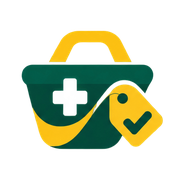
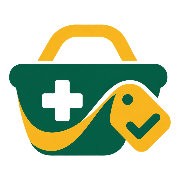
Atualiza icone da marca em todo o sistema

Changed region(s): [[0.0278, 0.1111, 0.9722, 0.8889]]

diff --git a/src/pages/PaginaAlterarSenhaRepresentante.tsx b/src/pages/PaginaAlterarSenhaRepresentante.tsx
@@ -8,5 +8,5 @@ import { LinkInterno, usarParametrosBusca } from '../roteamento'
 export default function PaginaAlterarSenhaRepresentante(){
   const[params]=usarParametrosBusca();const retorno=params.get('retornar')?.startsWith('/cotacao/responder/')?params.get('retornar')!:'/';const[senhaAtual,setSenhaAtual]=useState('');const[novaSenha,setNovaSenha]=useState('');const[confirmacao,setConfirmacao]=useState('');const[mostrar,setMostrar]=useState(false);const[erro,setErro]=useState('');const[ocupado,setOcupado]=useState(false);const[concluido,setConcluido]=useState(false)
   const salvar=async(event:FormEvent)=>{event.preventDefault();setErro('');if(novaSenha!==confirmacao){setErro('A confirmação não corresponde à nova senha.');return}setOcupado(true);try{await apiRepresentante('/publico/representantes/senha',{method:'PUT',body:JSON.stringify({senhaAtual,novaSenha})});await encerrarSessaoRepresentante();setConcluido(true)}catch(e){setErro(e instanceof ErroApi?e.message:'Não foi possível alterar a senha.')}finally{setOcupado(false)}}
-  return <div className="public-page public-center"><div className="public-logo reset-logo"><img className="cotapreco-logo" src="/cotapreco-logo.png?v=20260904-2" alt="CotaPreço"/></div><section className="public-card reset-card">{concluido?<><div className="success-icon large"><CheckCircle2/></div><h1>Senha alterada</h1><p>Por segurança, sua sessão foi encerrada. Entre novamente para continuar.</p><LinkInterno className="button button-primary button-large full-button" to={retorno}>Voltar para a cotação</LinkInterno></>:<><div className="success-icon small-icon"><KeyRound/></div><span className="eyebrow green">Conta do representante</span><h1>Alterar senha</h1><p>Confirme sua senha atual e escolha uma nova.</p>{erro&&<AvisoErro message={erro}/>}<form className="stack-form" onSubmit={salvar}><label>Senha atual<div className="password-field"><input required autoComplete="current-password" type={mostrar?'text':'password'} value={senhaAtual} onChange={e=>setSenhaAtual(e.target.value)}/><button type="button" aria-label={mostrar?'Ocultar senhas':'Mostrar senhas'} onClick={()=>setMostrar(valor=>!valor)}>{mostrar?<EyeOff/>:<Eye/>}</button></div></label><label>Nova senha<input required autoComplete="new-password" maxLength={72} type={mostrar?'text':'password'} value={novaSenha} onChange={e=>setNovaSenha(e.target.value)}/><IndicadorForcaSenha senha={novaSenha}/></label><label>Confirmar nova senha<input required autoComplete="new-password" maxLength={72} type={mostrar?'text':'password'} value={confirmacao} onChange={e=>setConfirmacao(e.target.value)}/></label><button className="button button-primary button-large full-button" disabled={ocupado}>{ocupado?'Atualizando...':'Atualizar senha'}</button></form></>}<div className="public-security"><ShieldCheck/>A alteração encerra as sessões ativas.</div>{!concluido&&<LinkInterno className="reset-back" to={retorno}><ArrowLeft/>Voltar para a cotação</LinkInterno>}</section></div>
+  return <div className="public-page public-center"><div className="public-logo reset-logo"><img className="cotapreco-logo" src="/cotapreco-logo.png?v=20260905-1" alt="CotaPreço"/></div><section className="public-card reset-card">{concluido?<><div className="success-icon large"><CheckCircle2/></div><h1>Senha alterada</h1><p>Por segurança, sua sessão foi encerrada. Entre novamente para continuar.</p><LinkInterno className="button button-primary button-large full-button" to={retorno}>Voltar para a cotação</LinkInterno></>:<><div className="success-icon small-icon"><KeyRound/></div><span className="eyebrow green">Conta do representante</span><h1>Alterar senha</h1><p>Confirme sua senha atual e escolha uma nova.</p>{erro&&<AvisoErro message={erro}/>}<form className="stack-form" onSubmit={salvar}><label>Senha atual<div className="password-field"><input required autoComplete="current-password" type={mostrar?'text':'password'} value={senhaAtual} onChange={e=>setSenhaAtual(e.target.value)}/><button type="button" aria-label={mostrar?'Ocultar senhas':'Mostrar senhas'} onClick={()=>setMostrar(valor=>!valor)}>{mostrar?<EyeOff/>:<Eye/>}</button></div></label><label>Nova senha<input required autoComplete="new-password" maxLength={72} type={mostrar?'text':'password'} value={novaSenha} onChange={e=>setNovaSenha(e.target.value)}/><IndicadorForcaSenha senha={novaSenha}/></label><label>Confirmar nova senha<input required autoComplete="new-password" maxLength={72} type={mostrar?'text':'password'} value={confirmacao} onChange={e=>setConfirmacao(e.target.value)}/></label><button className="button button-primary button-large full-button" disabled={ocupado}>{ocupado?'Atualizando...':'Atualizar senha'}</button></form></>}<div className="public-security"><ShieldCheck/>A alteração encerra as sessões ativas.</div>{!concluido&&<LinkInterno className="reset-back" to={retorno}><ArrowLeft/>Voltar para a cotação</LinkInterno>}</section></div>
 }

diff --git a/src/components/LayoutSistema.tsx b/src/components/LayoutSistema.tsx
@@ -43,7 +43,7 @@ export default function LayoutSistema({children}:{children:ReactNode}){
   const tituloNavegacao=(label:string)=>recolhidaEfetiva?label:undefined
   return <div className={`app-shell ${recolhidaEfetiva?'app-shell-sidebar-recolhida':''}`}>
     <aside className={`sidebar ${open?'sidebar-open':''} ${recolhidaEfetiva?'sidebar-recolhida':''}`}>
-      <div className="brand"><div className="brand-copy"><img className="cotapreco-logo" src="/cotapreco-logo.png?v=20260904-2" alt="CotaPreço"/><span>{user?.staff?'Equipe interna':'Compras inteligentes'}</span></div><button aria-label={recolhida?'Expandir menu':'Minimizar menu'} className="icon-button sidebar-toggle" title={recolhida?'Expandir menu':'Minimizar menu'} onClick={()=>setRecolhida(valor=>!valor)}>{recolhida?<PanelLeftOpen size={20}/>:<PanelLeftClose size={20}/>}</button><button className="icon-button sidebar-close" onClick={()=>setOpen(false)}><X size={20}/></button></div>
+      <div className="brand"><div className="brand-copy"><img className="cotapreco-logo" src="/cotapreco-logo.png?v=20260905-1" alt="CotaPreço"/><span>{user?.staff?'Equipe interna':'Compras inteligentes'}</span></div><button aria-label={recolhida?'Expandir menu':'Minimizar menu'} className="icon-button sidebar-toggle" title={recolhida?'Expandir menu':'Minimizar menu'} onClick={()=>setRecolhida(valor=>!valor)}>{recolhida?<PanelLeftOpen size={20}/>:<PanelLeftClose size={20}/>}</button><button className="icon-button sidebar-close" onClick={()=>setOpen(false)}><X size={20}/></button></div>
       <nav>
         {(user?.staff?linksStaff:links).map(({to,label,icon:Icon,end})=><LinkNavegacao key={to} to={to} end={end} aria-label={label} title={tituloNavegacao(label)} onClick={fecharMenuMobile}><Icon size={20}/><span>{label}</span><ChevronRight className="nav-chevron" size={16}/></LinkNavegacao>)}
         {!user?.staff&&(isAdminAtivo(user)||isAdminDoGrupo(user))&&<><div className="nav-divider"/><span className="nav-label">Administração</span>{isAdminDoGrupo(user)&&<LinkNavegacao to="/usuarios" aria-label="Usuários" title={tituloNavegacao('Usuários')} onClick={fecharMenuMobile}><Users size={20}/><span>Usuários</span><ChevronRight className="nav-chevron" size={16}/></LinkNavegacao>}<LinkNavegacao to="/dados-farmacia" aria-label="Dados da farmácia" title={tituloNavegacao('Dados da farmácia')} onClick={fecharMenuMobile}><Building2 size={20}/><span>Dados da farmácia</span><ChevronRight className="nav-chevron" size={16}/></LinkNavegacao></>}
@@ -54,6 +54,6 @@ export default function LayoutSistema({children}:{children:ReactNode}){
       <div className="account"><div className="avatar">{user?.name.slice(0,2).toUpperCase()}</div><div><strong>{user?.name}</strong>{!user?.staff&&<SeletorFarmacia user={user}/>}</div><button className="icon-button" title="Sair" onClick={()=>void logout()}><LogOut size={19}/></button></div>
     </aside>
     {open&&<button aria-label="Fechar menu" className="sidebar-backdrop" onClick={()=>setOpen(false)}/>} 
-    <div className="main-area"><header className="mobile-header"><button className="icon-button" onClick={()=>setOpen(true)}><Menu/></button><div className="brand compact"><img className="cotapreco-logo" src="/cotapreco-logo.png?v=20260904-2" alt="CotaPreço"/></div><div className="avatar small">{user?.name[0]}</div></header><main><AvisoEmailConfirmado/><FaixaAssinatura/><FaixaConfirmacaoEmail/>{children}</main><footer className="rodape-sistema"><AssinaturaEmpresa/></footer></div>
+    <div className="main-area"><header className="mobile-header"><button className="icon-button" onClick={()=>setOpen(true)}><Menu/></button><div className="brand compact"><img className="cotapreco-logo" src="/cotapreco-logo.png?v=20260905-1" alt="CotaPreço"/></div><div className="avatar small">{user?.name[0]}</div></header><main><AvisoEmailConfirmado/><FaixaAssinatura/><FaixaConfirmacaoEmail/>{children}</main><footer className="rodape-sistema"><AssinaturaEmpresa/></footer></div>
   </div>
 }

diff --git a/src/pages/PaginaRedefinirSenha.tsx b/src/pages/PaginaRedefinirSenha.tsx
@@ -8,5 +8,5 @@ export default function PaginaRedefinirSenha(){
   const[params]=usarParametrosBusca();const token=params.get('token')??''
   const[senha,setSenha]=useState('');const[confirmacao,setConfirmacao]=useState('');const[erro,setErro]=useState('');const[ocupado,setOcupado]=useState(false);const[concluido,setConcluido]=useState(false)
   const enviar=async(event:FormEvent)=>{event.preventDefault();setErro('');if(senha!==confirmacao){setErro('As senhas não coincidem.');return}setOcupado(true);try{await apiPublica('/auth/redefinir-senha',{method:'POST',body:JSON.stringify({token,novaSenha:senha})});setConcluido(true)}catch(e){setErro(e instanceof ErroApi?e.message:'Não foi possível redefinir a senha.')}finally{setOcupado(false)}}
-  return <div className="public-page public-center"><div className="public-logo reset-logo"><img className="cotapreco-logo" src="/cotapreco-logo.png?v=20260904-2" alt="CotaPreço"/></div><section className="public-card reset-card">{concluido?<><div className="success-icon large"><CheckCircle2/></div><h1>Senha redefinida</h1><p>Sua senha foi atualizada. Entre novamente para continuar.</p><LinkInterno className="button button-primary button-large full-button" to="/login">Ir para o login</LinkInterno></>:<><div className="success-icon small-icon"><KeyRound/></div><span className="eyebrow green">Recuperar acesso</span><h1>Crie uma nova senha</h1><p>Escolha uma senha com pelo menos 8 caracteres.</p>{!token&&<AvisoErro message="O link de redefinição está incompleto."/>}{erro&&<AvisoErro message={erro}/>}<form onSubmit={enviar} className="stack-form"><label>Nova senha<input type="password" required minLength={8} maxLength={72} autoComplete="new-password" value={senha} onChange={e=>setSenha(e.target.value)}/></label><label>Confirmar nova senha<input type="password" required minLength={8} maxLength={72} autoComplete="new-password" value={confirmacao} onChange={e=>setConfirmacao(e.target.value)}/></label><button className="button button-primary button-large full-button" disabled={ocupado||!token}>{ocupado?'Salvando...':'Redefinir senha'}</button></form></>}<div className="public-security"><ShieldCheck/>Link protegido e de uso único.</div></section></div>
+  return <div className="public-page public-center"><div className="public-logo reset-logo"><img className="cotapreco-logo" src="/cotapreco-logo.png?v=20260905-1" alt="CotaPreço"/></div><section className="public-card reset-card">{concluido?<><div className="success-icon large"><CheckCircle2/></div><h1>Senha redefinida</h1><p>Sua senha foi atualizada. Entre novamente para continuar.</p><LinkInterno className="button button-primary button-large full-button" to="/login">Ir para o login</LinkInterno></>:<><div className="success-icon small-icon"><KeyRound/></div><span className="eyebrow green">Recuperar acesso</span><h1>Crie uma nova senha</h1><p>Escolha uma senha com pelo menos 8 caracteres.</p>{!token&&<AvisoErro message="O link de redefinição está incompleto."/>}{erro&&<AvisoErro message={erro}/>}<form onSubmit={enviar} className="stack-form"><label>Nova senha<input type="password" required minLength={8} maxLength={72} autoComplete="new-password" value={senha} onChange={e=>setSenha(e.target.value)}/></label><label>Confirmar nova senha<input type="password" required minLength={8} maxLength={72} autoComplete="new-password" value={confirmacao} onChange={e=>setConfirmacao(e.target.value)}/></label><button className="button button-primary button-large full-button" disabled={ocupado||!token}>{ocupado?'Salvando...':'Redefinir senha'}</button></form></>}<div className="public-security"><ShieldCheck/>Link protegido e de uso único.</div></section></div>
 }

diff --git a/src/pages/PaginaRedefinirSenhaRepresentante.tsx b/src/pages/PaginaRedefinirSenhaRepresentante.tsx
@@ -9,5 +9,5 @@ export default function PaginaRedefinirSenhaRepresentante(){
   const[params]=usarParametrosBusca();const token=params.get('token')??''
   const[senha,setSenha]=useState('');const[confirmacao,setConfirmacao]=useState('');const[erro,setErro]=useState('');const[ocupado,setOcupado]=useState(false);const[concluido,setConcluido]=useState(false)
   const enviar=async(event:FormEvent)=>{event.preventDefault();setErro('');if(senha!==confirmacao){setErro('As senhas não coincidem.');return}setOcupado(true);try{await apiPublica('/publico/representantes/redefinir-senha',{method:'POST',body:JSON.stringify({token,novaSenha:senha})});setConcluido(true)}catch(e){setErro(e instanceof ErroApi?e.message:'Não foi possível redefinir a senha.')}finally{setOcupado(false)}}
-  return <div className="public-page public-center"><div className="public-logo reset-logo"><img className="cotapreco-logo" src="/cotapreco-logo.png?v=20260904-2" alt="CotaPreço"/></div><section className="public-card reset-card">{concluido?<><div className="success-icon large"><CheckCircle2/></div><h1>Senha redefinida</h1><p>Abra novamente o link da cotação para entrar com sua nova senha.</p></>:<><div className="success-icon small-icon"><KeyRound/></div><span className="eyebrow green">Conta do representante</span><h1>Crie uma nova senha</h1><p>Escolha uma senha fácil de lembrar.</p>{!token&&<AvisoErro message="O link de redefinição está incompleto."/>}{erro&&<AvisoErro message={erro}/>}<form onSubmit={enviar} className="stack-form"><label>Nova senha<input type="password" required minLength={1} maxLength={72} autoComplete="new-password" value={senha} onChange={e=>setSenha(e.target.value)}/><IndicadorForcaSenha senha={senha}/></label><label>Confirmar nova senha<input type="password" required minLength={1} maxLength={72} autoComplete="new-password" value={confirmacao} onChange={e=>setConfirmacao(e.target.value)}/></label><button className="button button-primary button-large full-button" disabled={ocupado||!token}>{ocupado?'Salvando...':'Redefinir senha'}</button></form></>}<div className="public-security"><ShieldCheck/>Link protegido e de uso único.</div></section></div>
+  return <div className="public-page public-center"><div className="public-logo reset-logo"><img className="cotapreco-logo" src="/cotapreco-logo.png?v=20260905-1" alt="CotaPreço"/></div><section className="public-card reset-card">{concluido?<><div className="success-icon large"><CheckCircle2/></div><h1>Senha redefinida</h1><p>Abra novamente o link da cotação para entrar com sua nova senha.</p></>:<><div className="success-icon small-icon"><KeyRound/></div><span className="eyebrow green">Conta do representante</span><h1>Crie uma nova senha</h1><p>Escolha uma senha fácil de lembrar.</p>{!token&&<AvisoErro message="O link de redefinição está incompleto."/>}{erro&&<AvisoErro message={erro}/>}<form onSubmit={enviar} className="stack-form"><label>Nova senha<input type="password" required minLength={1} maxLength={72} autoComplete="new-password" value={senha} onChange={e=>setSenha(e.target.value)}/><IndicadorForcaSenha senha={senha}/></label><label>Confirmar nova senha<input type="password" required minLength={1} maxLength={72} autoComplete="new-password" value={confirmacao} onChange={e=>setConfirmacao(e.target.value)}/></label><button className="button button-primary button-large full-button" disabled={ocupado||!token}>{ocupado?'Salvando...':'Redefinir senha'}</button></form></>}<div className="public-security"><ShieldCheck/>Link protegido e de uso único.</div></section></div>
 }

diff --git a/src/pages/PaginaEsqueciSenha.tsx b/src/pages/PaginaEsqueciSenha.tsx
@@ -7,5 +7,5 @@ import { LinkInterno } from '../roteamento'
 export default function PaginaEsqueciSenha(){
   const[email,setEmail]=useState('');const[erro,setErro]=useState('');const[mensagem,setMensagem]=useState('');const[ocupado,setOcupado]=useState(false)
   const enviar=async(event:FormEvent)=>{event.preventDefault();setErro('');setMensagem('');setOcupado(true);try{const resposta=await apiPublica<{mensagem:string}>('/auth/esqueci-senha',{method:'POST',body:JSON.stringify({email})});setMensagem(resposta.mensagem)}catch(e){setErro(e instanceof ErroApi?e.message:'Não foi possível enviar as instruções.')}finally{setOcupado(false)}}
-  return <div className="public-page public-center"><div className="public-logo reset-logo"><img className="cotapreco-logo" src="/cotapreco-logo.png?v=20260904-2" alt="CotaPreço"/></div><section className="public-card reset-card"><div className="success-icon small-icon"><KeyRound/></div><span className="eyebrow green">Recuperar acesso</span><h1>Esqueceu sua senha?</h1><p>Informe seu e-mail de acesso. Enviaremos um link seguro para criar uma nova senha.</p>{erro&&<AvisoErro message={erro}/>} {mensagem?<div className="reset-success"><CheckCircle2/><p>{mensagem}</p></div>:<form onSubmit={enviar} className="stack-form"><label>E-mail<input type="email" required autoComplete="email" value={email} onChange={e=>setEmail(e.target.value)}/></label><button className="button button-primary button-large full-button" disabled={ocupado}>{ocupado?'Enviando...':<><Mail/>Enviar instruções</>}</button></form>}<LinkInterno className="reset-back" to="/login"><ArrowLeft/>Voltar para o login</LinkInterno></section></div>
+  return <div className="public-page public-center"><div className="public-logo reset-logo"><img className="cotapreco-logo" src="/cotapreco-logo.png?v=20260905-1" alt="CotaPreço"/></div><section className="public-card reset-card"><div className="success-icon small-icon"><KeyRound/></div><span className="eyebrow green">Recuperar acesso</span><h1>Esqueceu sua senha?</h1><p>Informe seu e-mail de acesso. Enviaremos um link seguro para criar uma nova senha.</p>{erro&&<AvisoErro message={erro}/>} {mensagem?<div className="reset-success"><CheckCircle2/><p>{mensagem}</p></div>:<form onSubmit={enviar} className="stack-form"><label>E-mail<input type="email" required autoComplete="email" value={email} onChange={e=>setEmail(e.target.value)}/></label><button className="button button-primary button-large full-button" disabled={ocupado}>{ocupado?'Enviando...':<><Mail/>Enviar instruções</>}</button></form>}<LinkInterno className="reset-back" to="/login"><ArrowLeft/>Voltar para o login</LinkInterno></section></div>
 }

diff --git a/index.html b/index.html
@@ -12,16 +12,16 @@
     <meta property="og:url" content="https://cotapreco.com/"/>
     <meta property="og:title" content="CotaPreço — Cotação de medicamentos para farmácias"/>
     <meta property="og:description" content="Compare as propostas das distribuidoras item a item e receba o pedido de cada uma pronto. Teste 7 dias grátis, sem cartão."/>
-    <meta property="og:image" content="https://cotapreco.com/cotapreco-social-whatsapp.jpg?v=20260904-2"/>
+    <meta property="og:image" content="https://cotapreco.com/cotapreco-social-whatsapp.jpg?v=20260905-1"/>
     <meta property="og:image:type" content="image/jpeg"/>
     <meta property="og:image:width" content="1200"/><meta property="og:image:height" content="630"/>
     <meta property="og:image:alt" content="CotaPreço — Compare propostas. Compre melhor. Teste 7 dias grátis, sem cartão."/>
     <meta name="twitter:card" content="summary_large_image"/>
     <meta name="twitter:title" content="CotaPreço — Cotação de medicamentos para farmácias"/>
     <meta name="twitter:description" content="Compare as propostas das distribuidoras item a item e receba o pedido de cada uma pronto. Teste 7 dias grátis, sem cartão."/>
-    <meta name="twitter:image" content="https://cotapreco.com/cotapreco-social-whatsapp.jpg?v=20260904-2"/>
-    <link rel="icon" type="image/png" href="/favicon.png?v=20260904-2"/><link rel="apple-touch-icon" href="/apple-touch-icon.png?v=20260904-2"/>
-    <link rel="manifest" href="/manifest.webmanifest?v=20260904-2"/>
+    <meta name="twitter:image" content="https://cotapreco.com/cotapreco-social-whatsapp.jpg?v=20260905-1"/>
+    <link rel="icon" type="image/png" sizes="64x64" href="/favicon.png?v=20260905-1"/><link rel="apple-touch-icon" sizes="180x180" href="/apple-touch-icon.png?v=20260905-1"/>
+    <link rel="manifest" href="/manifest.webmanifest?v=20260905-1"/>
     <link rel="preload" as="image" href="/landing/04-compra-sugerida-mobile.webp" media="(max-width: 700px)"/>
     <script type="application/ld+json">
     {
@@ -33,7 +33,7 @@
           "applicationCategory": "BusinessApplication",
           "operatingSystem": "Web",
           "url": "https://cotapreco.com/",
-          "image": "https://cotapreco.com/cotapreco-logo.png?v=20260904-2",
+          "image": "https://cotapreco.com/cotapreco-logo.png?v=20260905-1",
           "description": "Sistema de cotação e compra de medicamentos para farmácias: recebe as propostas das distribuidoras, compara item a item e monta o pedido de cada uma pelo melhor preço.",
           "inLanguage": "pt-BR",
           "offers": {

diff --git a/src/pages/PaginaLogin.tsx b/src/pages/PaginaLogin.tsx
@@ -32,7 +32,7 @@ export default function PaginaLogin(){
 
   return <div className="login-page">
     <section className="login-hero">
-      <div className="brand light"><div className="brand-copy"><img className="cotapreco-logo" src="/cotapreco-logo.png?v=20260904-2" alt="CotaPreço"/><span>Compras inteligentes</span></div></div>
+      <div className="brand light"><div className="brand-copy"><img className="cotapreco-logo" src="/cotapreco-logo.png?v=20260905-1" alt="CotaPreço"/><span>Compras inteligentes</span></div></div>
       <div className="hero-copy">
         <span className="eyebrow"><Sparkles size={16}/> Mais economia, menos planilhas</span>
         <h1>Compare propostas.<br/>Compre melhor.</h1>

diff --git a/src/pages/PaginaCadastroFarmacia.tsx b/src/pages/PaginaCadastroFarmacia.tsx
@@ -89,7 +89,7 @@ export default function PaginaCadastroFarmacia() {
   return <div className="lp cad">
     <header className="lp-topo">
       <div className="lp-container lp-topo-interno">
-        <LinkInterno to="/" className="lp-marca"><img className="cotapreco-logo" src="/cotapreco-logo.png?v=20260904-2" alt="CotaPreço"/></LinkInterno>
+        <LinkInterno to="/" className="lp-marca"><img className="cotapreco-logo" src="/cotapreco-logo.png?v=20260905-1" alt="CotaPreço"/></LinkInterno>
         <nav className="lp-topo-acoes" aria-label="Acesso ao sistema"><LinkInterno to="/login" className="lp-link-entrar">Entrar</LinkInterno></nav>
       </div>
     </header>

diff --git a/src/components/LayoutLegal.tsx b/src/components/LayoutLegal.tsx
@@ -27,7 +27,7 @@ export default function LayoutLegal({ titulo, resumo, indice, children }: {
     <header className="lp-topo">
       <div className="lp-container lp-topo-interno">
         <LinkInterno to="/" className="lp-marca">
-          <img className="cotapreco-logo" src="/cotapreco-logo.png?v=20260904-2" alt="CotaPreço"/>
+          <img className="cotapreco-logo" src="/cotapreco-logo.png?v=20260905-1" alt="CotaPreço"/>
         </LinkInterno>
         <nav className="lp-topo-acoes" aria-label="Acesso ao sistema">
           <LinkInterno to="/login" className="lp-link-entrar">Entrar</LinkInterno>

diff --git a/src/pages/PaginaLanding.tsx b/src/pages/PaginaLanding.tsx
@@ -92,7 +92,7 @@ export default function PaginaLanding() {
     <header className="lp-topo">
       <div className="lp-container lp-topo-interno">
         <div className="lp-marca">
-          <img className="cotapreco-logo" src="/cotapreco-logo.png?v=20260904-2" alt="CotaPreço"/>
+          <img className="cotapreco-logo" src="/cotapreco-logo.png?v=20260905-1" alt="CotaPreço"/>
         </div>
         <nav className="lp-topo-acoes" aria-label="Acesso ao sistema">
           <LinkInterno to="/login" className="lp-link-entrar">Entrar</LinkInterno>

diff --git a/src/components/RodapeEmpresa.tsx b/src/components/RodapeEmpresa.tsx
@@ -29,7 +29,7 @@ export default function RodapeSite({ mostrarCadastro = true }: { mostrarCadastro
   return <footer className="lp-rodape">
     <div className="lp-container lp-rodape-interno">
       <div className="lp-marca">
-        <img className="cotapreco-logo" src="/cotapreco-logo.png?v=20260904-2" alt="CotaPreço"/>
+        <img className="cotapreco-logo" src="/cotapreco-logo.png?v=20260905-1" alt="CotaPreço"/>
       </div>
       <p>Cotação e compra de medicamentos para farmácias.</p>
       <nav aria-label="Links do rodapé">

diff --git a/src/pages/PaginaRespostaPublica.tsx b/src/pages/PaginaRespostaPublica.tsx
@@ -1883,7 +1883,7 @@ function Cabecalho({
 function Logo() {
   return (
     <div className="public-logo">
-      <img className="cotapreco-logo" src="/cotapreco-logo.png?v=20260904-2" alt="CotaPreço" />
+      <img className="cotapreco-logo" src="/cotapreco-logo.png?v=20260905-1" alt="CotaPreço" />
     </div>
   );
 }
